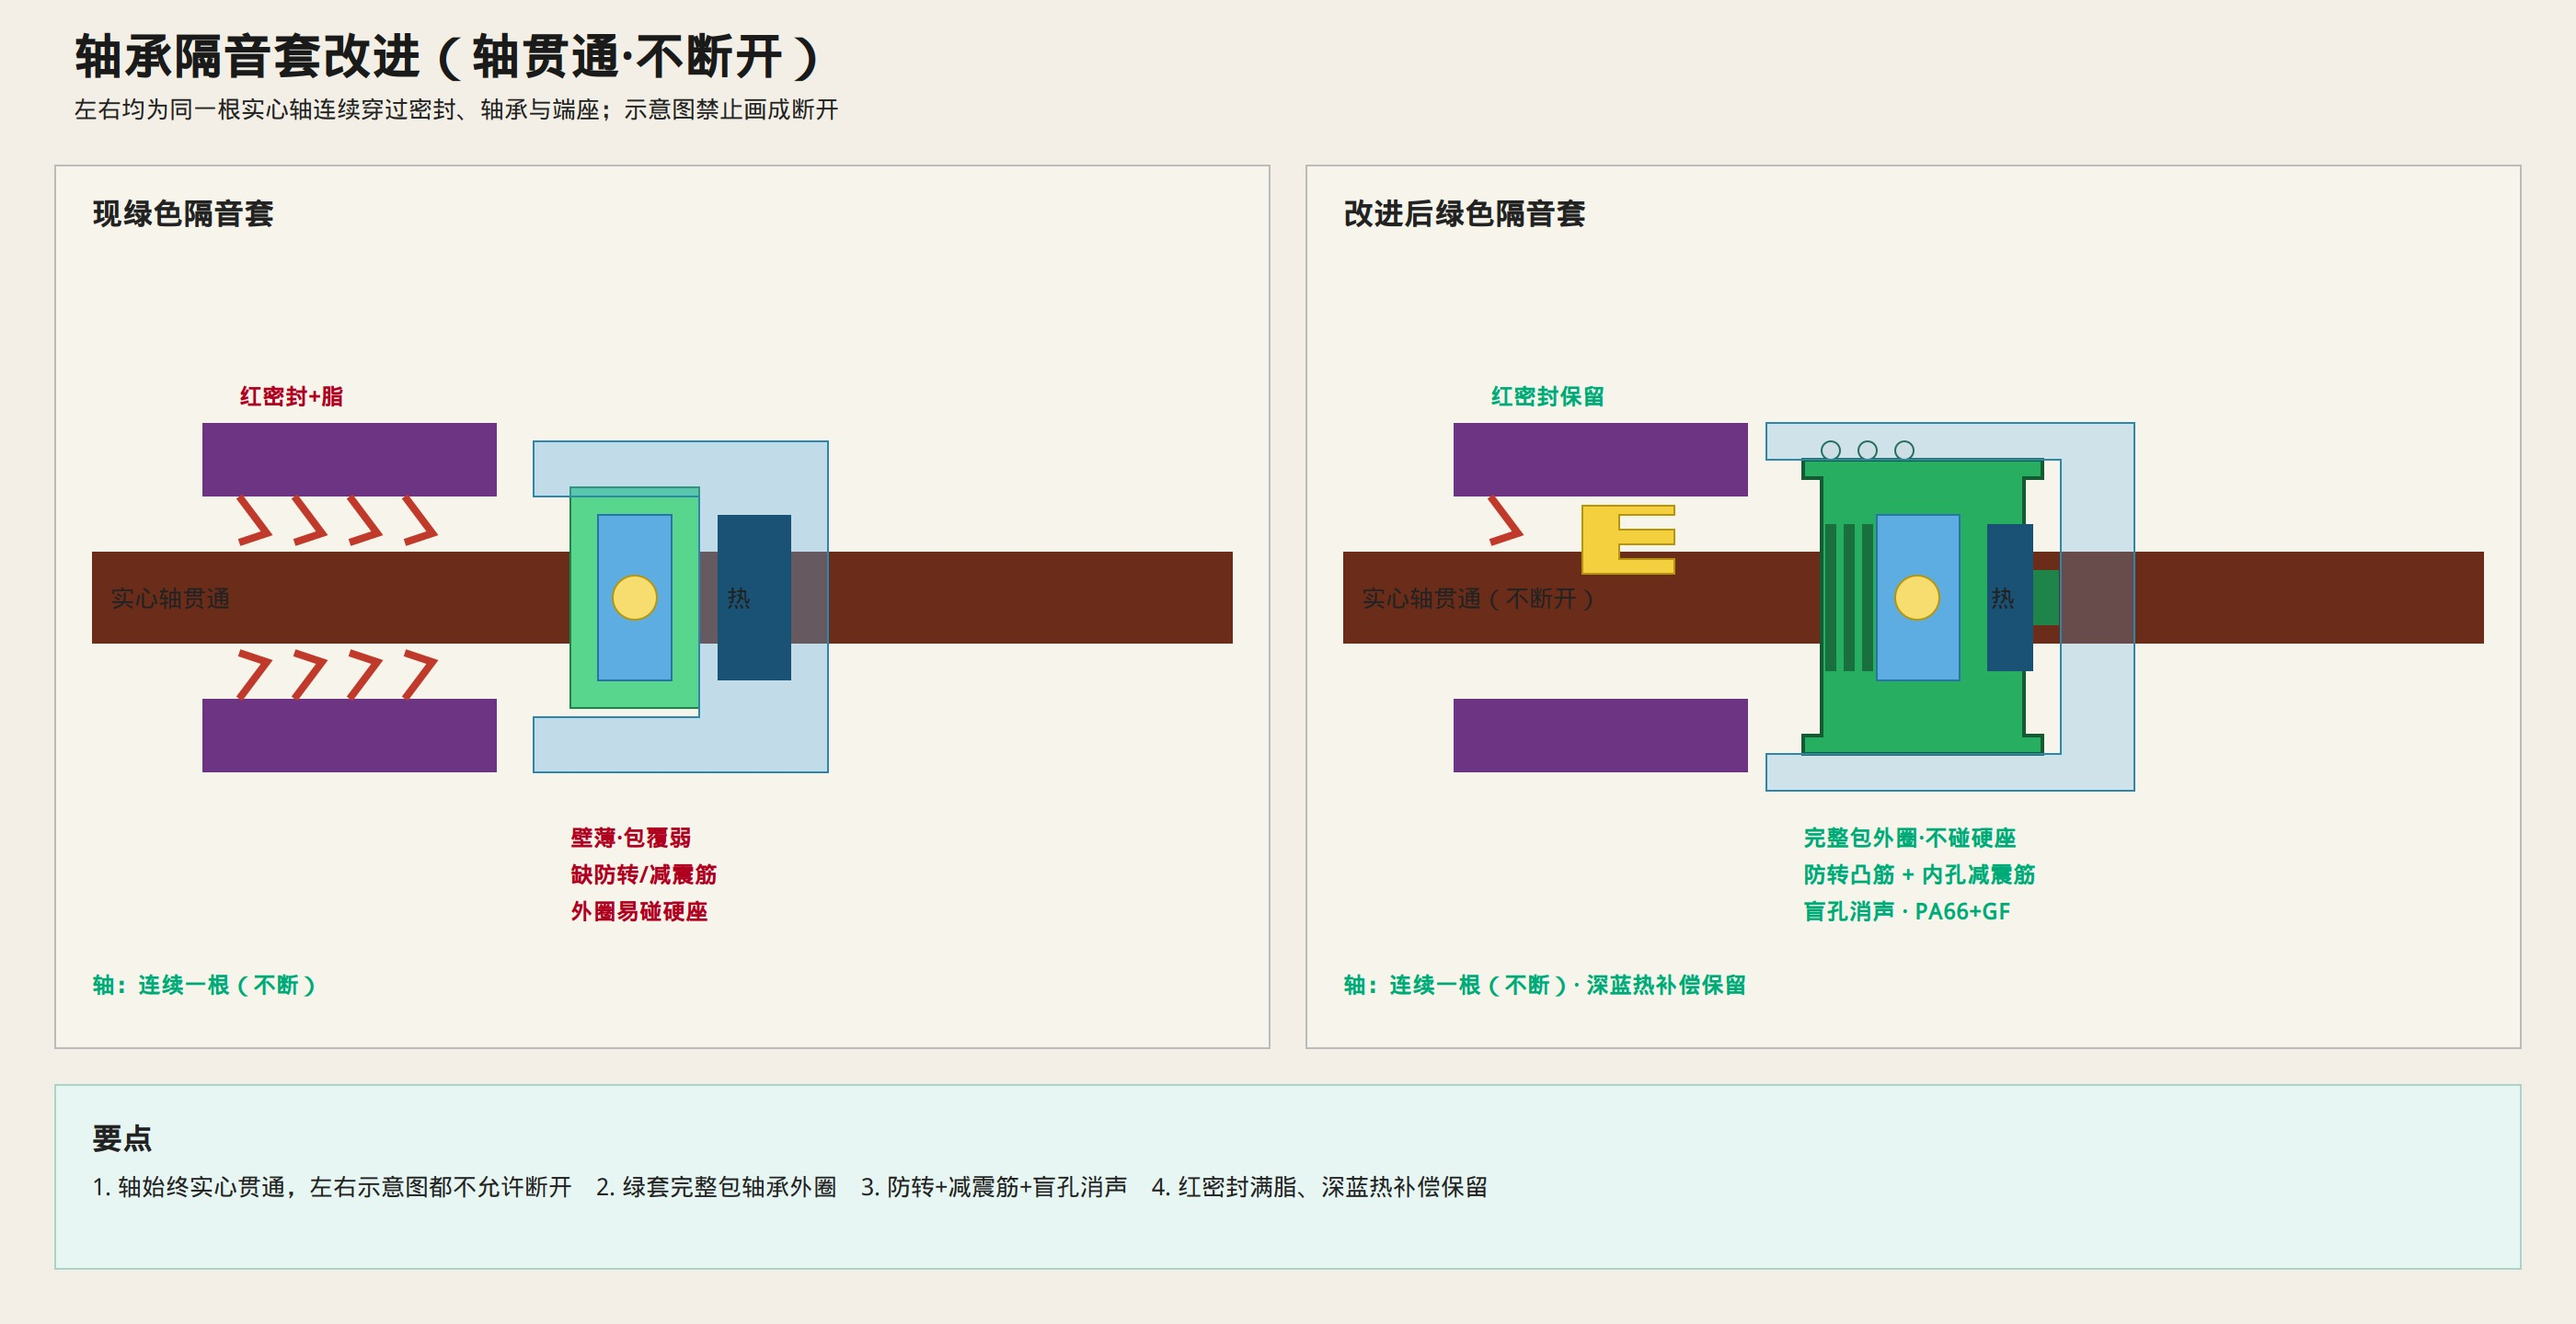
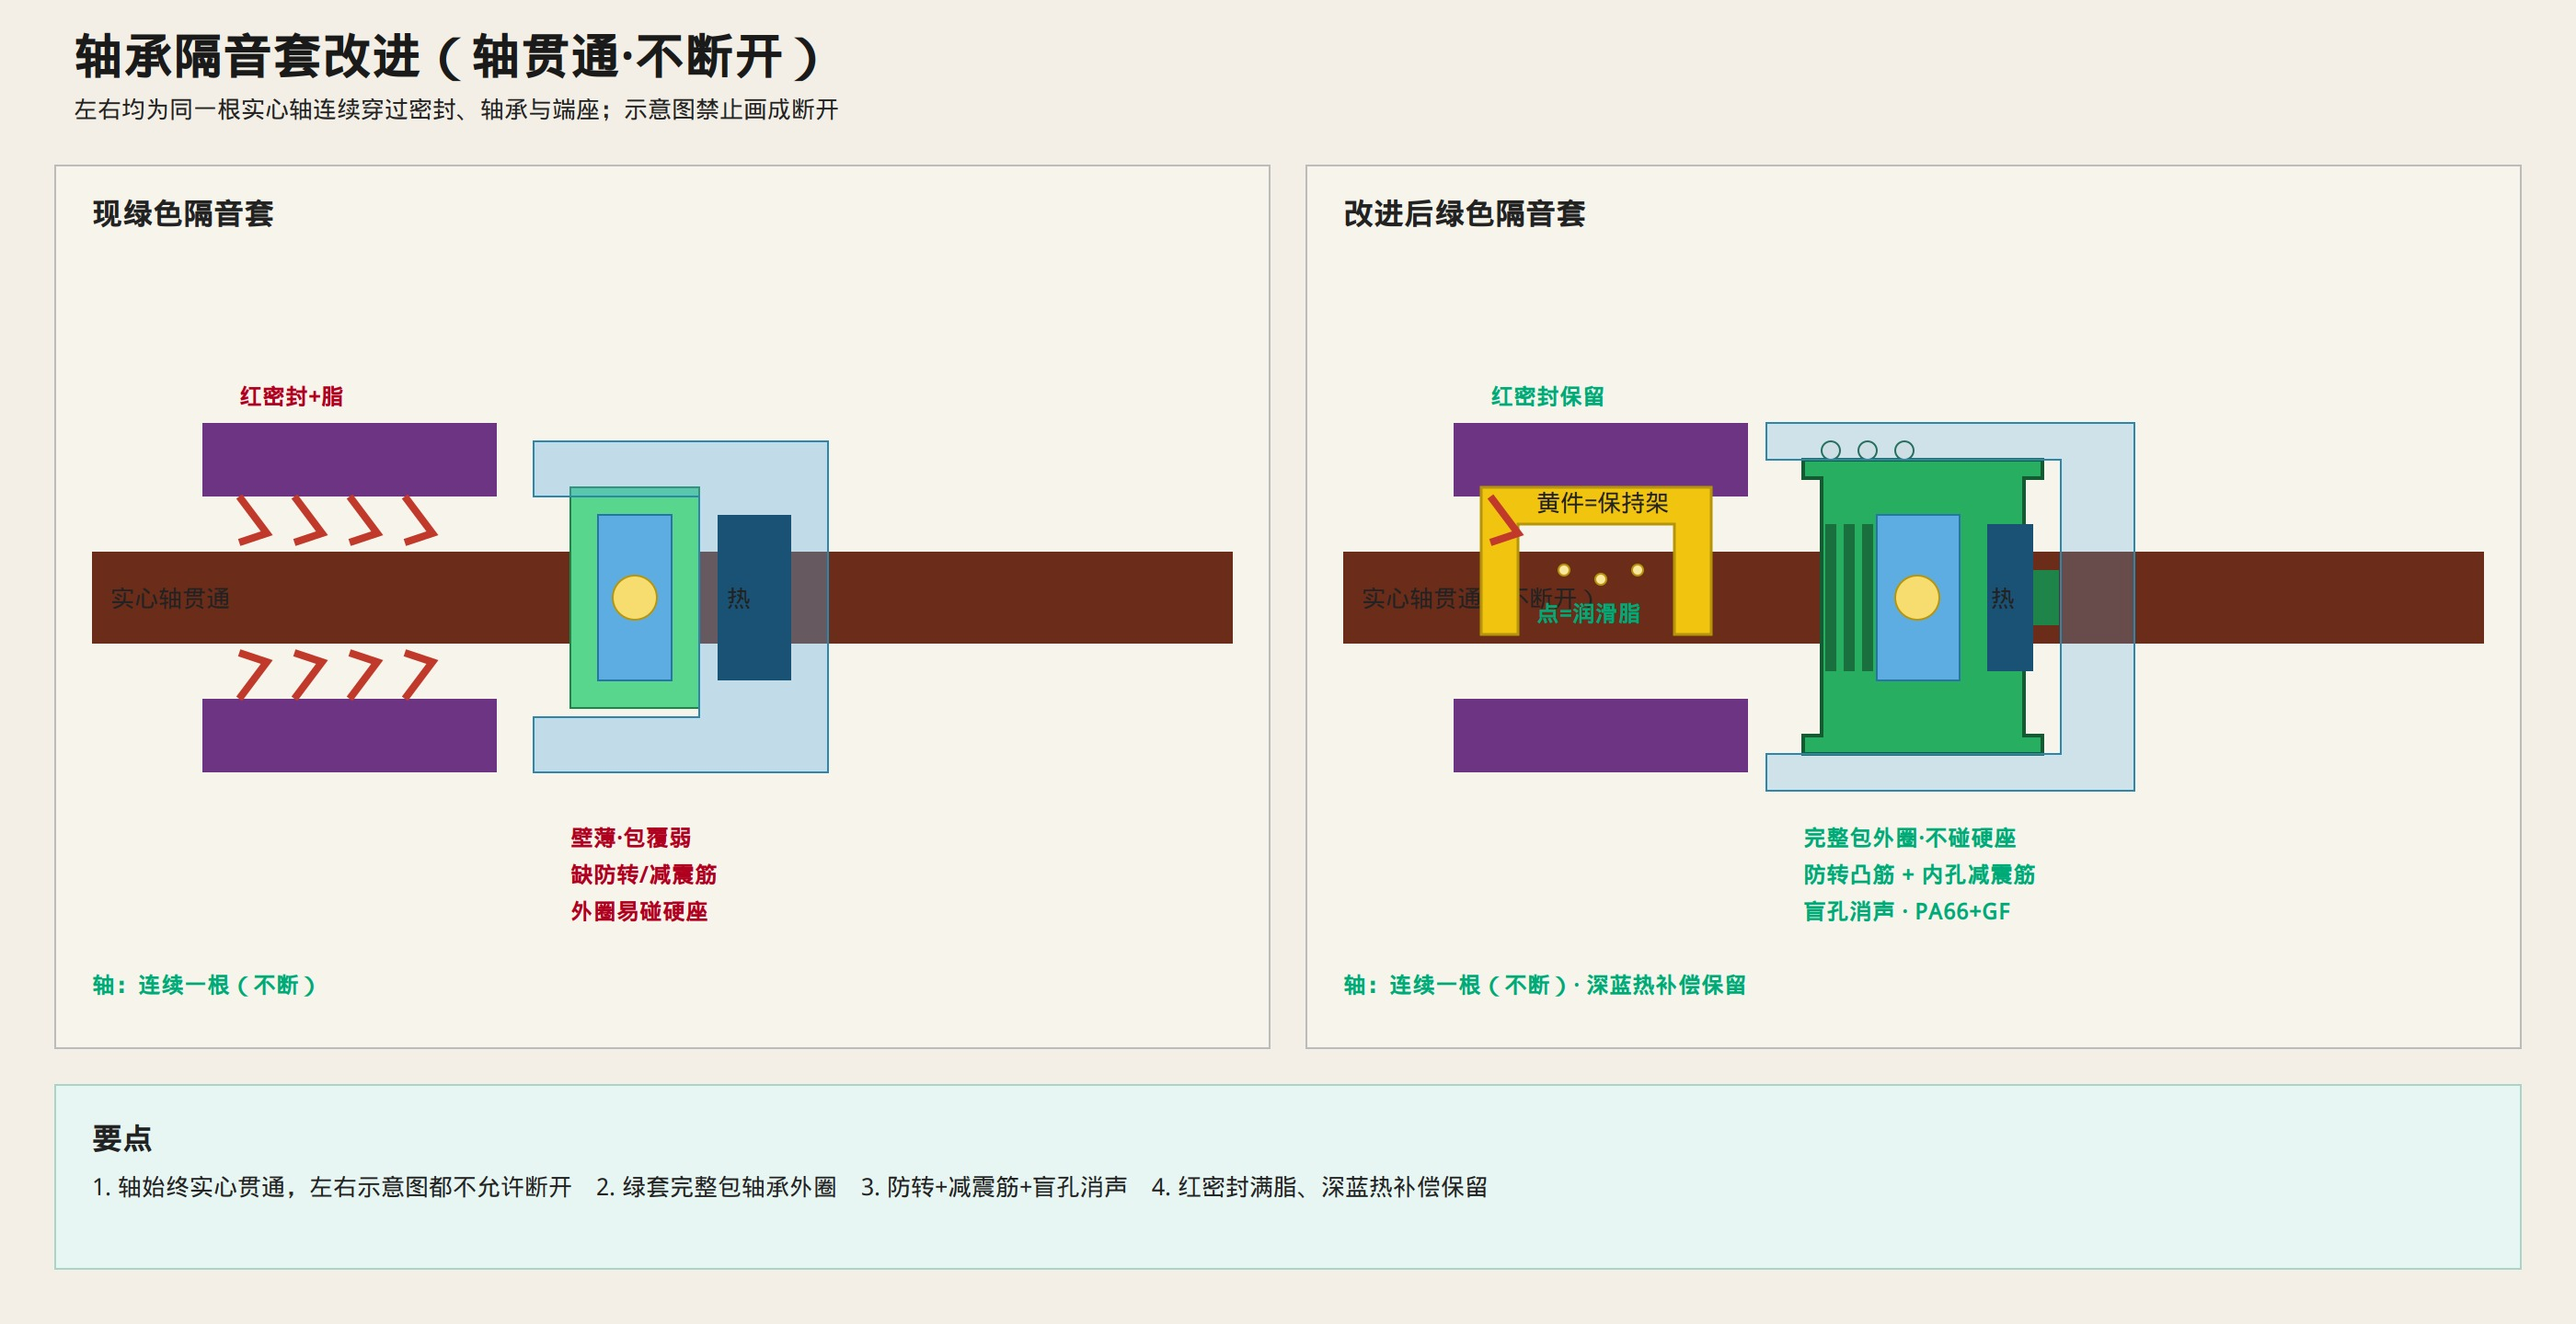
docs(silent-idler): clarify golden-yellow part is seal carrier
Document CAD color legend: yellow retainer holds red seals;
schematic grease dots are not the yellow solid part.

Changed region(s): [[0.5593, 0.3438, 0.6836, 0.5]]

diff --git a/docs/silent-idler/SILENT_SEAT_PRINCIPLE.md b/docs/silent-idler/SILENT_SEAT_PRINCIPLE.md
@@ -16,11 +16,14 @@
 
 | 你图里的颜色 | 材质/形态 | 在原理里的角色 |
 |--------------|-----------|----------------|
+| **金黄 / 黄件** | **密封保持架（载体）** | 托住红密封，装在轴与紫件之间；**不是脂、不是滚珠** |
 | **绿色** | 包在轴承外的消音/隔振套（或含轴承的隔振安装） | **结构隔振 + 吸声**：切断轴承外圈与硬座硬碰，阻隔、吸收轴承噪声 |
 | **红色迷宫 + 齿间润滑脂** | 软质迷宫 + **储油槽满脂** | **防尘**；同时脂腔用来**隔断轴承转动声从端部传出**（行业专利原文即如此写） |
 | **深蓝色** | **软材质** | **热变形补偿**：吃掉轴/座/轴承热胀差，防卡死、防过盈突变（你指出的用途，正确） |
 | 青绿端座 / 管 | 承力壳体 | 承载；静音不靠它“硬抱”轴承外圈 |
 | 实心轴 | 钢，固定 | 承力定位；本身不做阻尼 |
+
+颜色速查：[`COLOR_LEGEND.md`](./COLOR_LEGEND.md)
 
 ```text
 路径A 结构：轴承振动 → 绿消音套/降噪座 → 削弱后再到端座/管

diff --git a/README.md b/README.md
@@ -21,6 +21,7 @@
 | [`docs/golden-cases/GC-01_blast_furnace_feeder.md`](./docs/golden-cases/GC-01_blast_furnace_feeder.md) | 黄金算例 |
 | [`docs/silent-idler/FINAL_SCHEME.md`](./docs/silent-idler/FINAL_SCHEME.md) | **静音托辊推荐方案（最终版）** |
 | [`docs/silent-idler/SILENT_SEAT_PRINCIPLE.md`](./docs/silent-idler/SILENT_SEAT_PRINCIPLE.md) | **静音轴承座原理纠正（示意图+说明）** |
+| [`docs/silent-idler/COLOR_LEGEND.md`](./docs/silent-idler/COLOR_LEGEND.md) | **CAD 颜色对照** |
 | [`docs/silent-idler/IMPROVE_COMPETITOR.md`](./docs/silent-idler/IMPROVE_COMPETITOR.md) | 竞品静音托辊更静音改进（示意图+说明） |
 | [`docs/silent-idler/EXISTING_SEAT_IMPROVE.md`](./docs/silent-idler/EXISTING_SEAT_IMPROVE.md) | **现有阻尼座能否改进（示意图+说明）** |
 | [`docs/silent-idler/BEARING_IMPROVE.md`](./docs/silent-idler/BEARING_IMPROVE.md) | **绿色轴承隔振/降噪改进（示意图+说明）** |

diff --git a/docs/silent-idler/COLOR_LEGEND.md b/docs/silent-idler/COLOR_LEGEND.md
@@ -1,0 +1,16 @@
+# 你 CAD 颜色对照
+
+> 只说明颜色是什么，避免和示意图里的「脂」搞混。
+
+| 颜色 | 是什么 | 干什么 |
+|------|--------|--------|
+| **金黄 / 黄件** | **密封保持架（载体）** | 托住红色唇/迷宫，装在轴与紫件之间 |
+| 红色 | 软质密封唇 / 迷宫齿 | 防尘；齿间可满脂 |
+| 浅黄点/涂脂（示意用） | **润滑脂**（不是零件） | 防尘 + 端部隔声 |
+| 绿色 | 轴承隔音套 | 结构隔振、吸声 |
+| 深蓝 | 软质热补偿件 | 消除热变形 |
+| 轴承本体（青/灰） | 深沟球轴承 | 回转 |
+| 紫 / 青绿大件 | 端盖、端座壳体 | 承力、封装 |
+| 棕 | 实心轴 | 承力、固定贯通 |
+
+**一句话：** 你图里那块实心金黄色 = **黄件保持架**；不是轴承球，也不是油脂本身。脂是填在红唇/迷宫缝里的。
